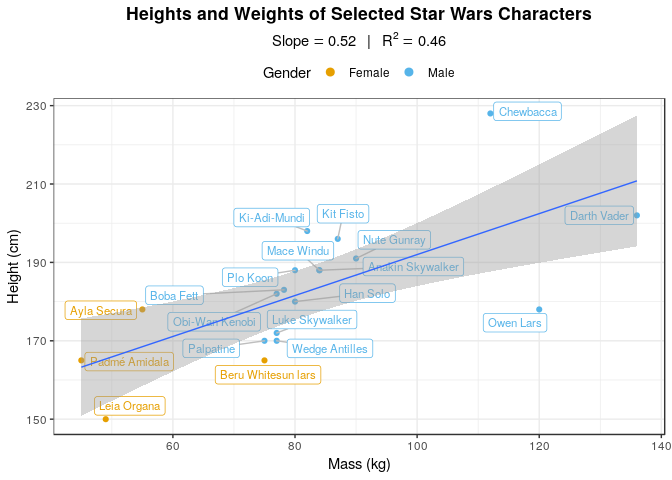
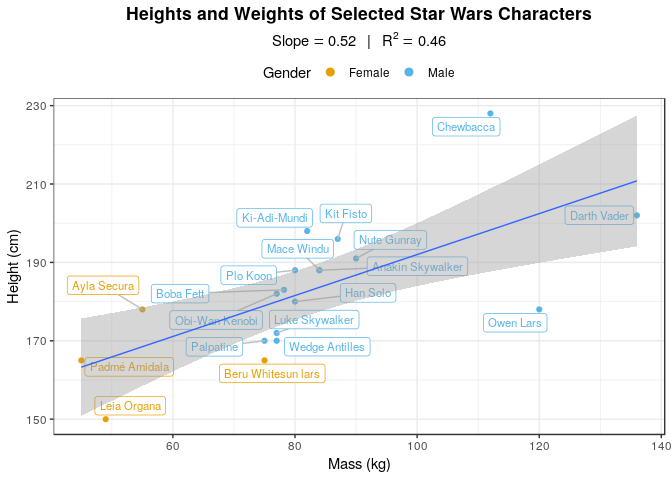
boxplot-ntweaks

Changed region(s): [[0.0938, 0.4062, 0.7188, 0.8125], [0.625, 0.1875, 0.8438, 0.3125], [0.125, 0.8438, 0.25, 0.875]]

diff --git a/Chart_Collection.md b/Chart_Collection.md
@@ -199,7 +199,8 @@ waffle( titanic_class %>%
   rows = 30, size = 0.5, 
   colors = waffle_palette, legend_pos = "bottom") +
   labs(title='Titanic Passengers by Class') +
-  theme(plot.title = element_text(lineheight=1, face="bold",hjust = 0.5,size=14)) +
+  theme(plot.title = element_text(lineheight=1, face="bold",hjust = 0.5,size=14)
+       ) +
   guides(fill = guide_legend(title='Class'))
 ```
 
@@ -330,9 +331,10 @@ r_square <- summary(fit)$r.squared
 ggplot(data=starwars_ht_wt,
           aes(x = mass, y = height, color = gender,group=1)) +
 geom_point() +
-theme(legend.margin=margin(0,0,0,0),
+  # remove legend margins
+theme( legend.margin=margin(0,0,0,0),
       legend.box.margin=margin(0,0,0,0)) +
-geom_label_repel(
+geom_label_repel( # Labels
     data = starwars_ht_wt,
     aes(label = name),
     size = 3,
@@ -341,25 +343,17 @@ geom_label_repel(
     segment.color = 'grey',
     show.legend = F # need this to fix legend
   ) +
-geom_smooth(method="lm",show.legend=F,size=0.5) +
+
+geom_smooth(method="lm",show.legend=F,size=0.5) + # Regression line
 scale_color_manual(values=c(cbPalette[2:5])) +
 labs(title='Heights and Weights of Selected Star Wars Characters',
      subtitle = bquote(Slope == .(round(coeff,2)) ~ ' | ' ~ R^2  ==  .(round(r_square,2)) )) +
-       
-      # str_c('Slope: ',as.character(round(coeff,2)),'  |  ',
-      #                expression(paste("R"^"2")),as.character(round(r_square,2)))) +
 xlab('Mass (kg)') +
 ylab('Height (cm)') +
 guides(color=guide_legend(title='Gender',override.aes = list(size=2.5)))
 ```
 
 ![](Chart_Collection_files/figure-markdown_github/scatter-1.png)
-
-``` r
-# Create interactive data table of raw data
-# This only works in HTML format so comment it out if knitting to github format 
-#datatable(starwars %>% select(-hair_color,skin_color,-birth_year), options = list(pageLength = 10))
-```
 
 Line
 ----
